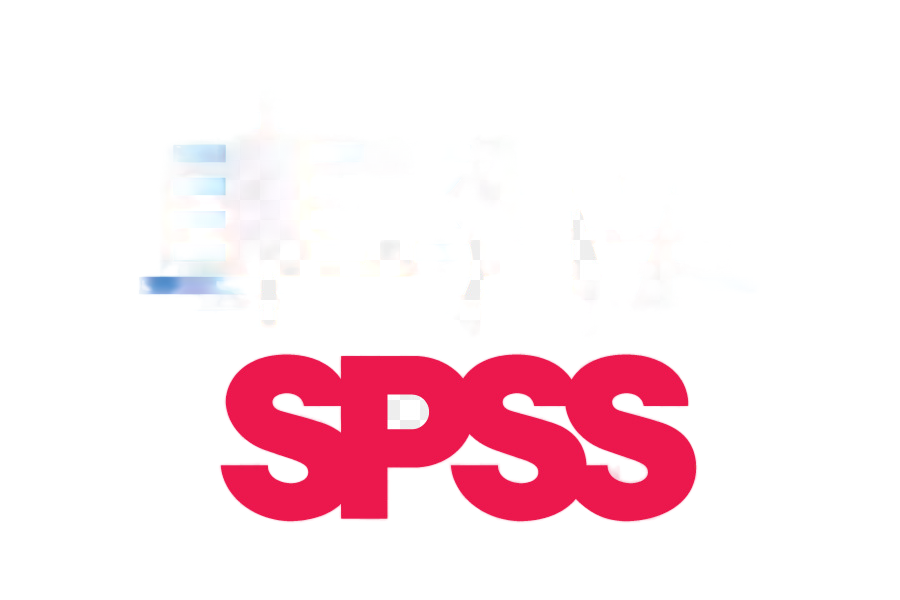
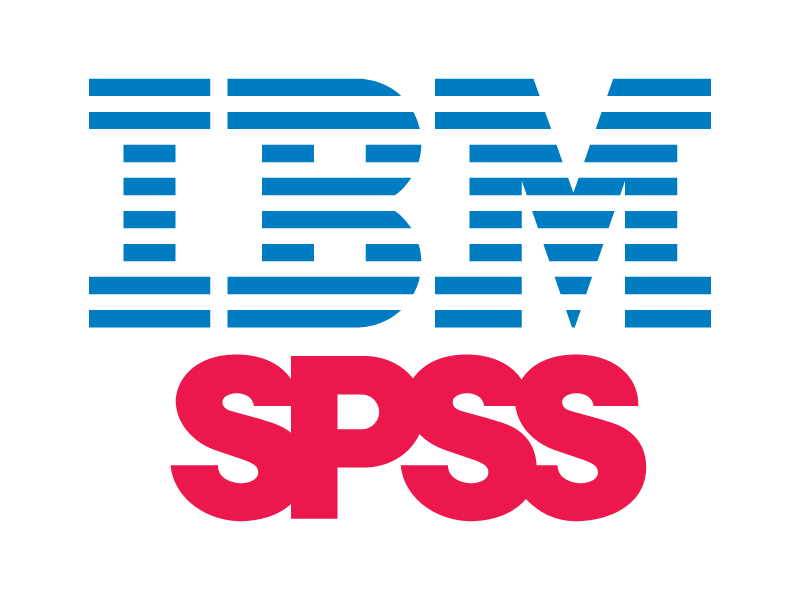
Updated png for tools
SPSS

diff --git a/README 2.md b/README 2.md
@@ -1,0 +1,1 @@
+# turtledelay.github.io
